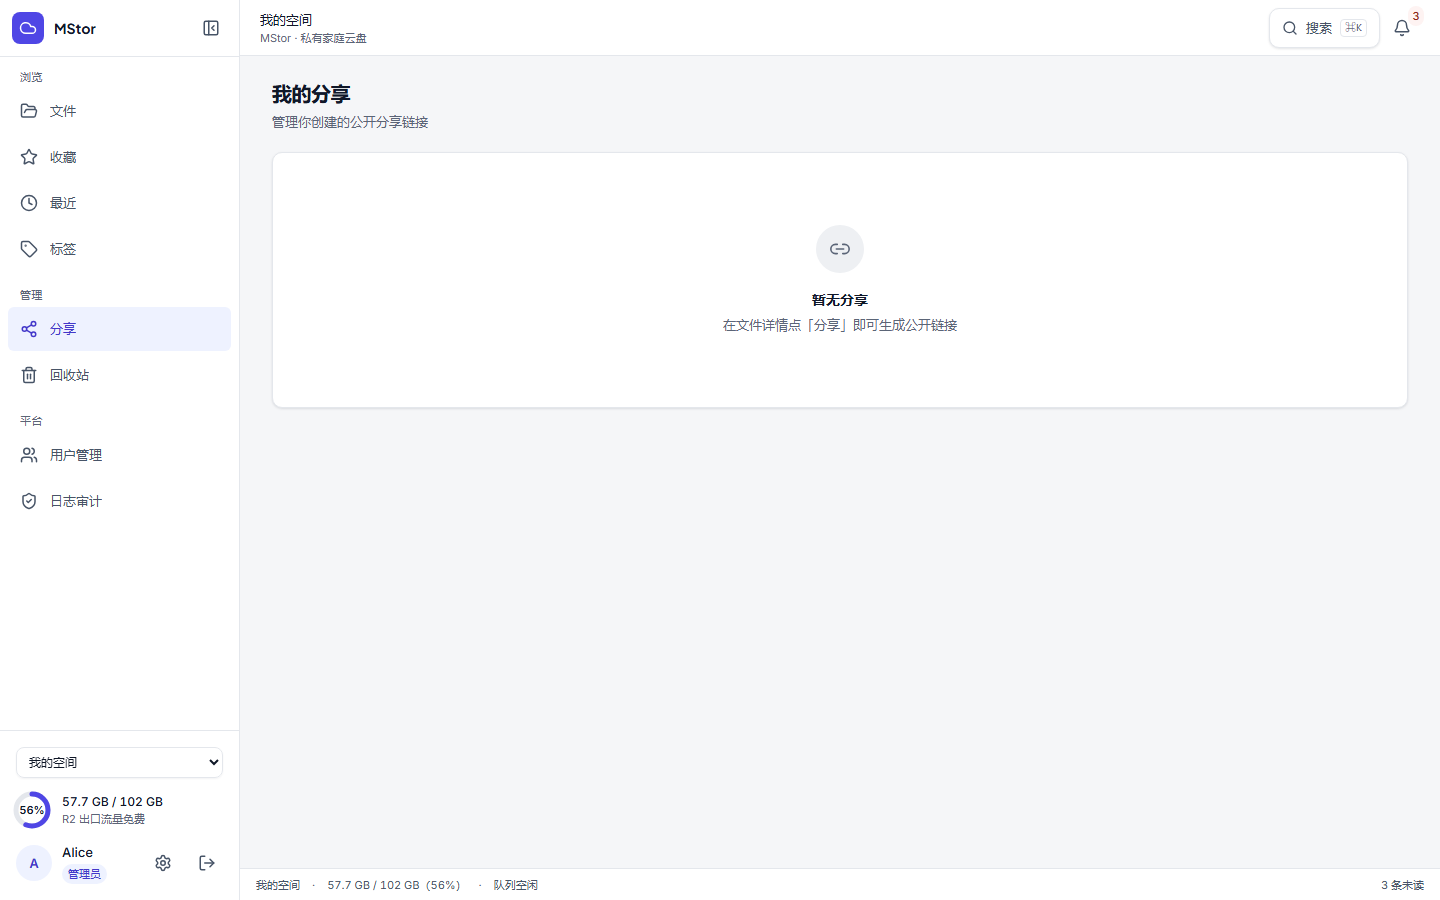
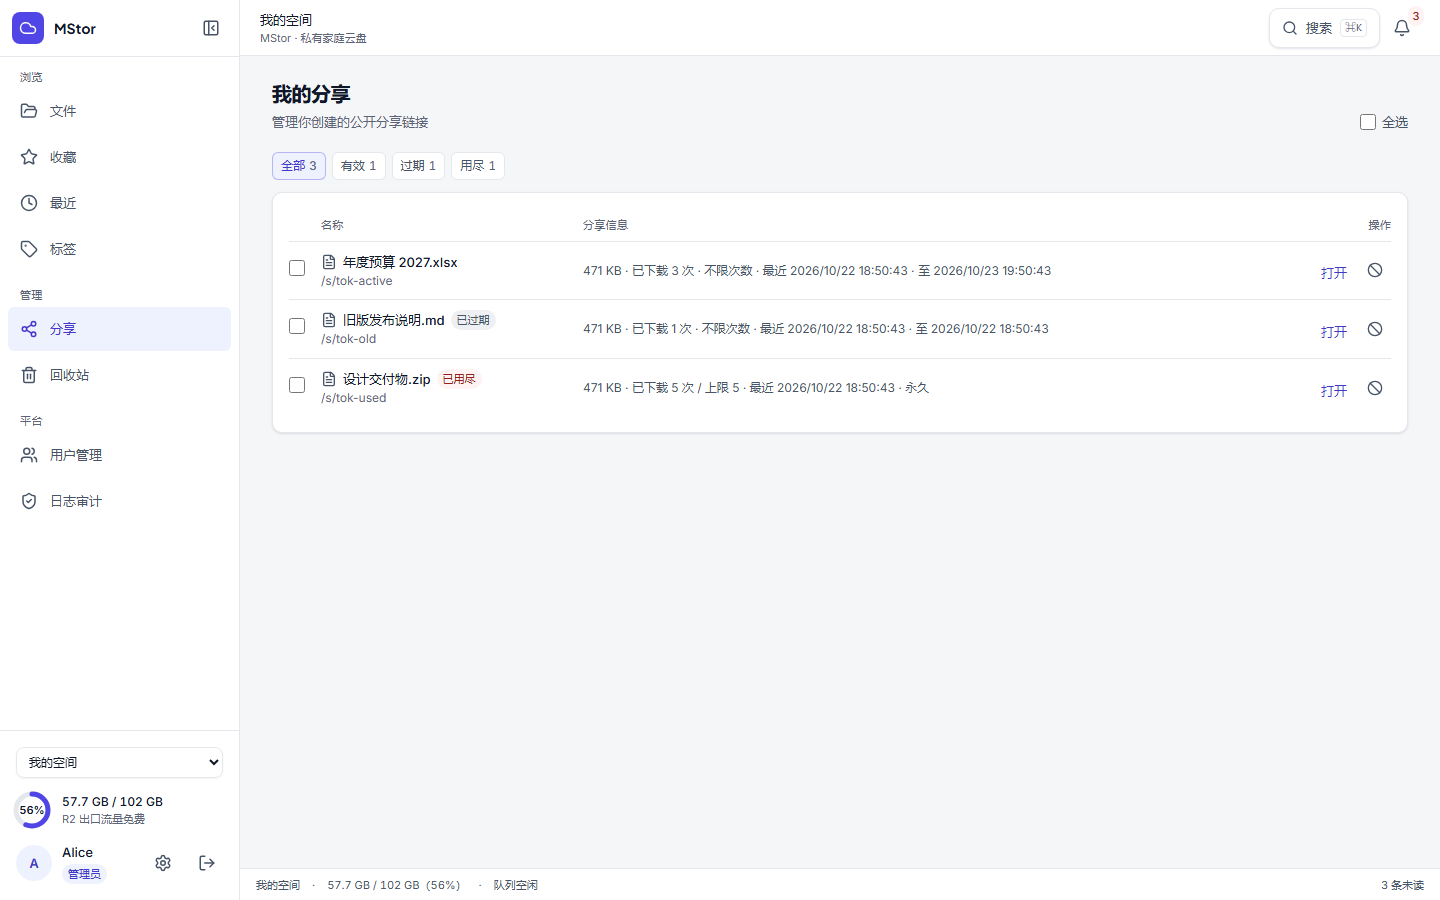
feat(shares): 分享筛选与详情图片预览
- 分享页新增「全部/有效/过期/用尽」筛选 + 数量；切换筛选清空选择，空结果可清除筛选
- 详情栏对图片增加 4:3 缩略图预览（右栏不再只有元信息）
- 视觉闸门 mock 分享数据并断言筛选组；分享页截图基线更新
- 43 文件 252 例；server 本地 29；visual:check 10/10；双 tsc/eslint/build 全绿

diff --git a/client/src/pages/SharesPage.tsx b/client/src/pages/SharesPage.tsx
@@ -22,9 +22,21 @@ export default function SharesPage() {
   // 批量撤销状态
   const [batchRevoking, setBatchRevoking] = useState(false);
   const [busy, setBusy] = useState(false);
+  type ShareFilter = "all" | "active" | "expired" | "exhausted";
+  const [filter, setFilter] = useState<ShareFilter>("all");
   const shares = query.data?.shares ?? [];
-  const ids = shares.map((s) => s.id);
-  const selection = useFileSelection(ids, "shares");
+  const now = Date.now();
+  const isExpired = (s: Share) => s.expires_at != null && s.expires_at < now;
+  const isExhausted = (s: Share) => s.max_downloads != null && s.downloads >= s.max_downloads;
+  const visible = shares.filter((s) => {
+    if (filter === "expired") return isExpired(s);
+    if (filter === "exhausted") return isExhausted(s);
+    if (filter === "active") return !isExpired(s) && !isExhausted(s);
+    return true;
+  });
+  const ids = visible.map((s) => s.id);
+  // 切换筛选时清空选择，避免批量操作误伤被隐藏的分享
+  const selection = useFileSelection(ids, `shares:${filter}`);
 
   const runBatchRevoke = async () => {
     setBusy(true);
@@ -42,7 +54,13 @@ export default function SharesPage() {
     invalidate();
   };
 
-  const allSelected = shares.length > 0 && selection.count === shares.length;
+  const allSelected = visible.length > 0 && selection.count === visible.length;
+  const FILTERS: { key: ShareFilter; label: string; count: number }[] = [
+    { key: "all", label: "全部", count: shares.length },
+    { key: "active", label: "有效", count: shares.filter((s) => !isExpired(s) && !isExhausted(s)).length },
+    { key: "expired", label: "过期", count: shares.filter(isExpired).length },
+    { key: "exhausted", label: "用尽", count: shares.filter(isExhausted).length },
+  ];
 
   return (
     <div className="md:pb-4">
@@ -50,7 +68,7 @@ export default function SharesPage() {
         title="我的分享"
         description="管理你创建的公开分享链接"
         actions={
-          shares.length > 0 ? (
+          visible.length > 0 ? (
             <label className="flex cursor-pointer items-center gap-1.5 text-sm text-ink-2">
               <input
                 type="checkbox"
@@ -64,10 +82,39 @@ export default function SharesPage() {
           ) : undefined
         }
       />
+      {shares.length > 0 && (
+        <div className="mb-3 flex flex-wrap gap-1.5" role="group" aria-label="分享筛选">
+          {FILTERS.map((f) => (
+            <button
+              key={f.key}
+              type="button"
+              aria-pressed={filter === f.key}
+              onClick={() => setFilter(f.key)}
+              className={`rounded-md border px-2 py-1 text-xs transition-colors ${
+                filter === f.key
+                  ? "border-primary/35 bg-primary-soft font-medium text-primary-text"
+                  : "border-line bg-surface-1 text-ink-2 hover:border-line-strong hover:text-ink"
+              }`}
+            >
+              {f.label}
+              <span className="num ml-1 text-ink-3">{f.count}</span>
+            </button>
+          ))}
+        </div>
+      )}
       <AsyncState query={query} skeletonRows={4}>
         {shares.length === 0 ? (
           <GlassCard className="p-2">
             <EmptyState icon={Link2} title="暂无分享" description="在文件详情点「分享」即可生成公开链接" />
+          </GlassCard>
+        ) : visible.length === 0 ? (
+          <GlassCard className="p-2">
+            <EmptyState
+              icon={Link2}
+              title="没有符合条件的分享"
+              description="换一个筛选条件，或回到「全部」"
+              action={<Button variant="ghost" onClick={() => setFilter("all")}>清除筛选</Button>}
+            />
           </GlassCard>
         ) : (
         <GlassCard className="p-3 sm:p-4">
@@ -81,7 +128,7 @@ export default function SharesPage() {
               </tr>
             </thead>
             <tbody>
-              {shares.map((s) => (
+              {visible.map((s) => (
                 <tr key={s.id} className="border-b border-line transition-colors last:border-b-0 hover:bg-bg-sub/70">
                   <td className="w-8 py-2.5">
                     <input

diff --git a/client/src/pages/SharesPage.test.tsx b/client/src/pages/SharesPage.test.tsx
@@ -50,6 +50,22 @@ test("过期分享显示「已过期」灰标，未过期不显示", async () =>
   expect(within(activeRow).queryByText("已过期")).toBeNull();
 });
 
+test("按「过期」筛选只显示已过期分享，切换筛选清空选择", async () => {
+  vi.mocked(listShares).mockResolvedValue({
+    shares: [
+      share({ id: "expired", token: "tok-old", node_name: "旧文件.txt", expires_at: Date.now() - 1000 }),
+      share({ id: "active", token: "tok-new", node_name: "新文件.txt", expires_at: Date.now() + 86400000 }),
+    ],
+  });
+  const { user } = renderWith(<SharesPage />);
+  await screen.findByText(/tok-old/);
+  await user.click(screen.getByRole("checkbox", { name: "选择 旧文件.txt" }));
+  await user.click(screen.getByRole("button", { name: /过期/ }));
+  expect(screen.queryByText(/tok-new/)).toBeNull();
+  expect(screen.getByText(/tok-old/)).toBeInTheDocument();
+  expect(screen.queryByRole("checkbox", { name: "选择 旧文件.txt" })).not.toBeChecked();
+});
+
 test("revoke asks confirm then calls revokeShare and refreshes", async () => {
   // 首次返回一条，失效重拉后返回空，才能断言「暂无分享」
   vi.mocked(listShares).mockResolvedValueOnce({ shares: [share()] }).mockResolvedValue({ shares: [] });

diff --git a/client/src/components/DetailPane.tsx b/client/src/components/DetailPane.tsx
@@ -1,4 +1,5 @@
 import { Download, FolderInput, Link2, Pencil, Tag, Trash2, X } from "lucide-react";
+import { contentUrl } from "../api/nodes";
 import type { Node } from "../api/types";
 import { formatBytes, formatDate } from "../lib/format";
 import { NodeIcon } from "./NodeIcon";
@@ -44,6 +45,15 @@ export function DetailPane({ node, onClose, onDownload, onShare, onRename, onMov
           <X size={16} aria-hidden />
         </IconButton>
       </div>
+
+      {node.mime?.startsWith("image/") && (
+        <img
+          src={contentUrl(node.id, true)}
+          alt={`${node.name} 预览`}
+          loading="lazy"
+          className="mt-3 aspect-[4/3] w-full rounded-md border border-line bg-bg-sub object-cover"
+        />
+      )}
 
       <div className="mt-3 border-t border-line pt-2">
         {!node.is_dir && <Row label="大小" value={formatBytes(node.size)} />}

diff --git a/docs/design-system.md b/docs/design-system.md
@@ -222,3 +222,9 @@ AppHeader（全端，h-14）：移动=菜单 + 品牌；桌面=当前空间 · M
 - 标签页选中标签后新增「重命名」入口，用 `Dialog` 承载名称表单；保存调用 PATCH /api/library/tags/:tagId 的 name 字段。
 - 与服务端已有的重名 409、长度 1–32 校验共用同一条错误路径；成功后失效标签列表/节点查询。
 - 客户端用例增至 251；标签页截图更新。
+
+### v7.7 分享筛选与详情预览
+
+- 分享页新增「全部 / 有效 / 过期 / 用尽」筛选（带数量），切换筛选时清空选择，避免批量撤销误伤隐藏项；筛选无结果时提供「清除筛选」空态。
+- 详情栏对图片增加 4:3 预览（走缩略图地址，失败时由原图/浏览器兜底），让右栏不再只有元信息。
+- 视觉闸门 mock 增加分享数据，并断言筛选组存在。

diff --git a/docs/ux-refactor-report.md b/docs/ux-refactor-report.md
@@ -503,7 +503,13 @@
 - 客户端新增重命名用例；标签页截图刷新（改色 + 重命名入口）。
 - 当前闸门：客户端 251 例、server 本地 29 项、visual:check 10/10。
 
-### 19.10 下一步视觉细化
+### 19.10 分享筛选与详情预览
+
+- 分享页新增「全部/有效/过期/用尽」筛选（带数量），切换筛选清空选择；无结果空态提供清除筛选。
+- 详情栏图片增加 4:3 缩略图预览。
+- 视觉闸门 mock 补分享数据并断言筛选组存在；客户用例 252。
+
+### 19.11 下一步视觉细化
 
 - 网格卡片与文件类型图标再收敛一轮（缩略图比例、角标位置）。
 - 设置页/平台表格的表头、行高、弹窗密度统一到 v7 节奏。
